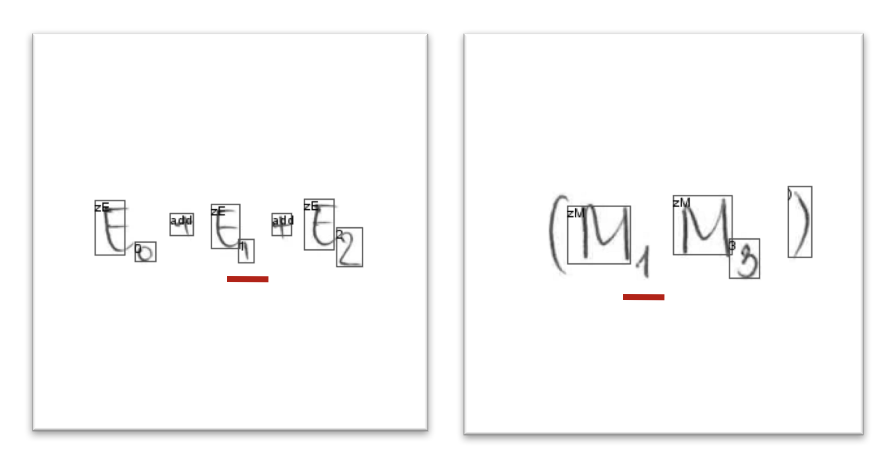
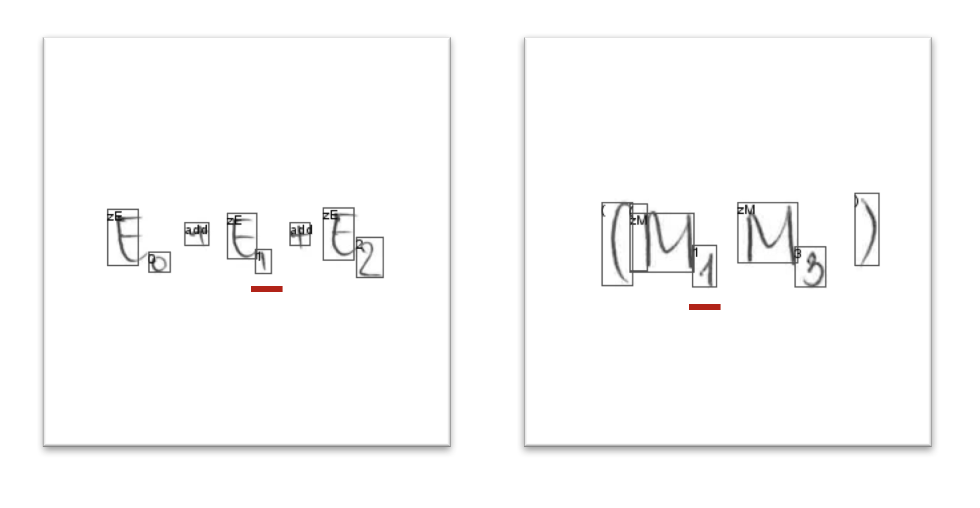
change image of section huong phat trien

diff --git a/report/report.tex b/report/report.tex
@@ -1360,7 +1360,7 @@ N_u	\end{align}
 		\vspace{0.5cm}
 		\captionof{figure}{ Kết quả nhận dạng sau khi được huấn luyện với dữ liệu bổ sung.}
 	\end{center}
-	Có thể nhận thấy được rằng, ký tự tại vị trí dấu gạch đỏ ở hình bên trái đã được nhận diện, tuy nhiên với hình bên phải thì lại không. 
+	Có thể nhận thấy được rằng, ký tự tại vị trí dấu gạch đỏ ở cả 2 hình đều được phát hiện và nhận đúng. Do đó hướng giải quyết phát triển tập dữ liệu là điều cần thiết và khả năng sẽ khắc phục những một số những lỗi sai khác. 
 	\subsubsection{Khắc phục lỗi nhận dạng sai ở ký tự lớn}
 	
 	Như nhóm đã đề cập ở phần trước, phiên bản IV hoạt động chưa tốt với những ký tự quá lớn, nắm được điều này, nhóm đã thử thu nhỏ ảnh và tiến hành chèn thêm (padding) vào ảnh đã thu nhỏ đó để nội dung ảnh thì nhỏ lại nhưng kích thước ảnh không đổi, vẫn $500 \times 500$.
